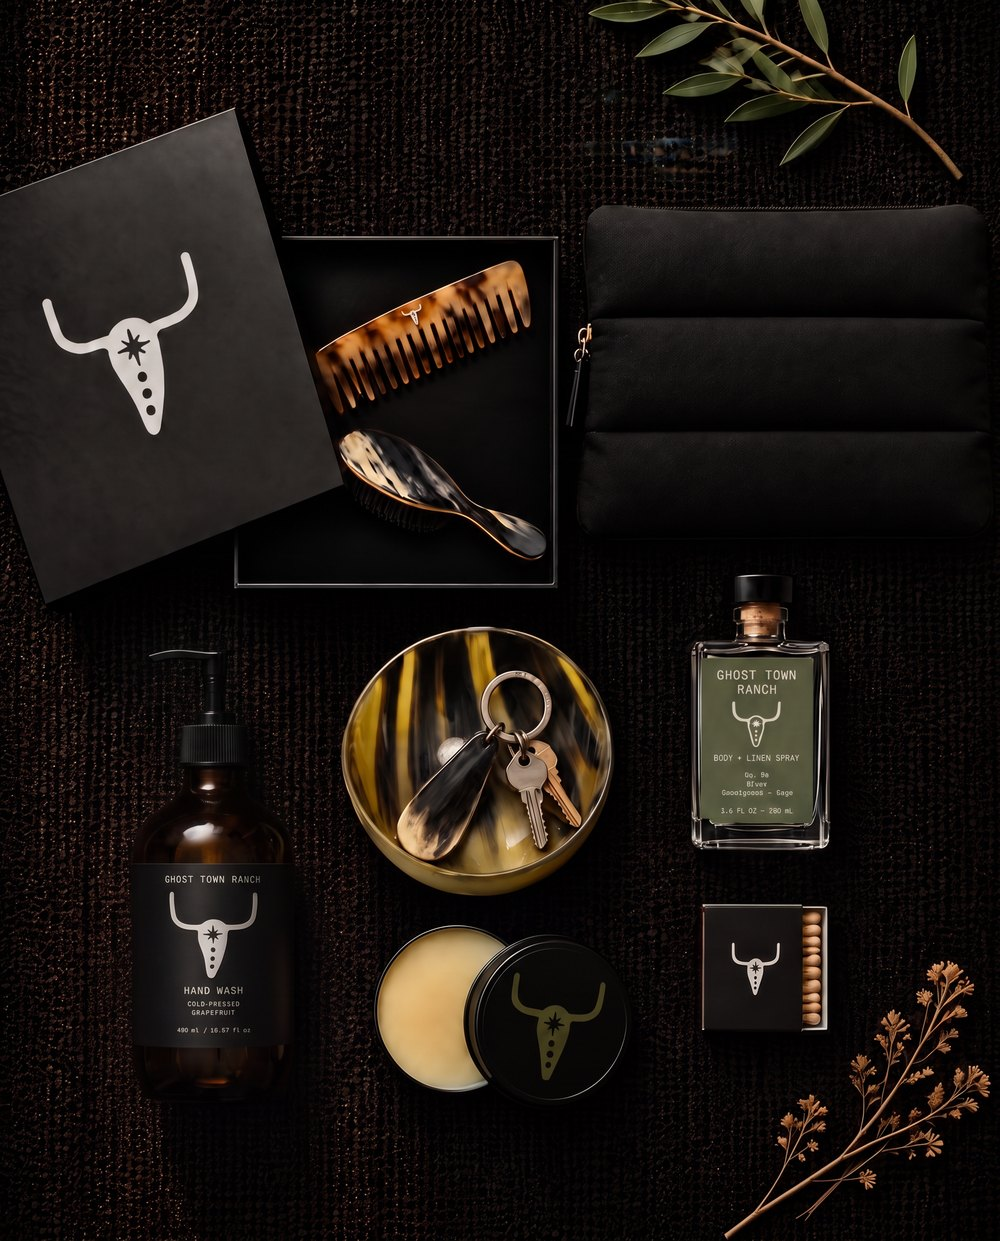
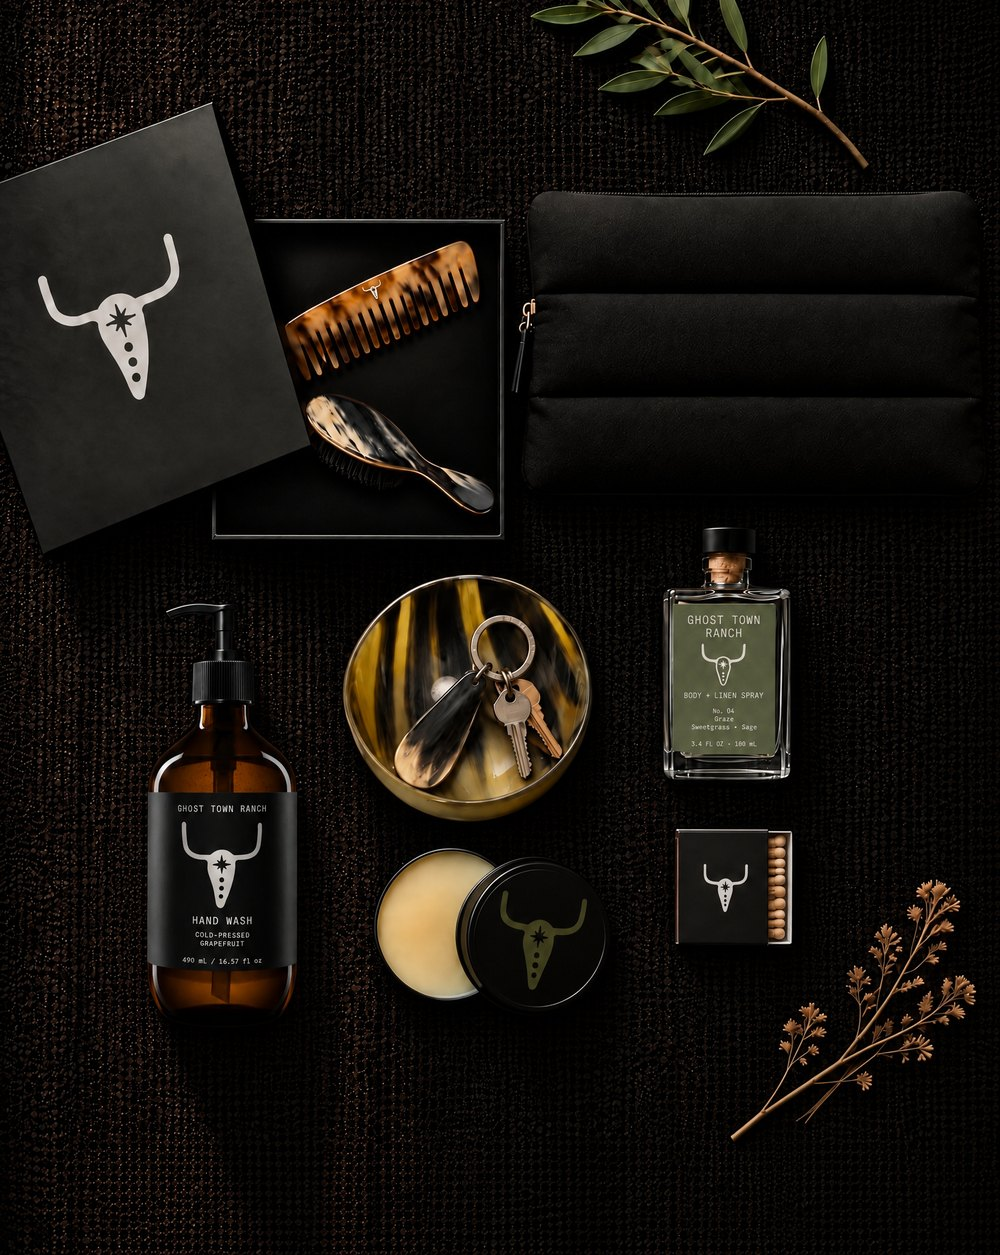
Home: End of Day image with corrected Graze label
Claude-Session: https://claude.ai/code/session_01NSPNNt7NBcQKkgqDSVJ3tK

Changed region(s): [[0.0, 0.0, 0.992, 1.0], [0.651, 0.4287, 0.992, 1.0], [0.031, 0.1837, 0.217, 0.3674]]

diff --git a/index.html b/index.html
@@ -920,7 +920,7 @@
       <div class="road-cap">Out the Door<span>Day Ride, keyring, brush, Soft Proof, Drawn Line, Blotting Papers, Dry Creek, Ranch Water</span></div>
     </a>
     <a class="road-tile" href="https://ghosttownranch.com/shop/">
-      <div class="road-media"><img src="/media/collection-end-of-day.jpg?v=3" alt="Horn comb and brush in a black Bull box, black Day Ride bag, horn bowl with the shoehorn keyring, The Wash in Cold-Pressed Grapefruit, Ranch Water in Graze and Beard Butter" loading="lazy"></div>
+      <div class="road-media"><img src="/media/collection-end-of-day.jpg?v=4" alt="Horn comb and brush in a black Bull box, black Day Ride bag, horn bowl with the shoehorn keyring, The Wash in Cold-Pressed Grapefruit, Ranch Water in Graze and Beard Butter" loading="lazy"></div>
       <div class="road-cap">End of the Day<span>Comb, brush, horn bowl, keyring, Day Ride, Ranch Water, The Wash, Beard Butter</span></div>
     </a>
   </div>
